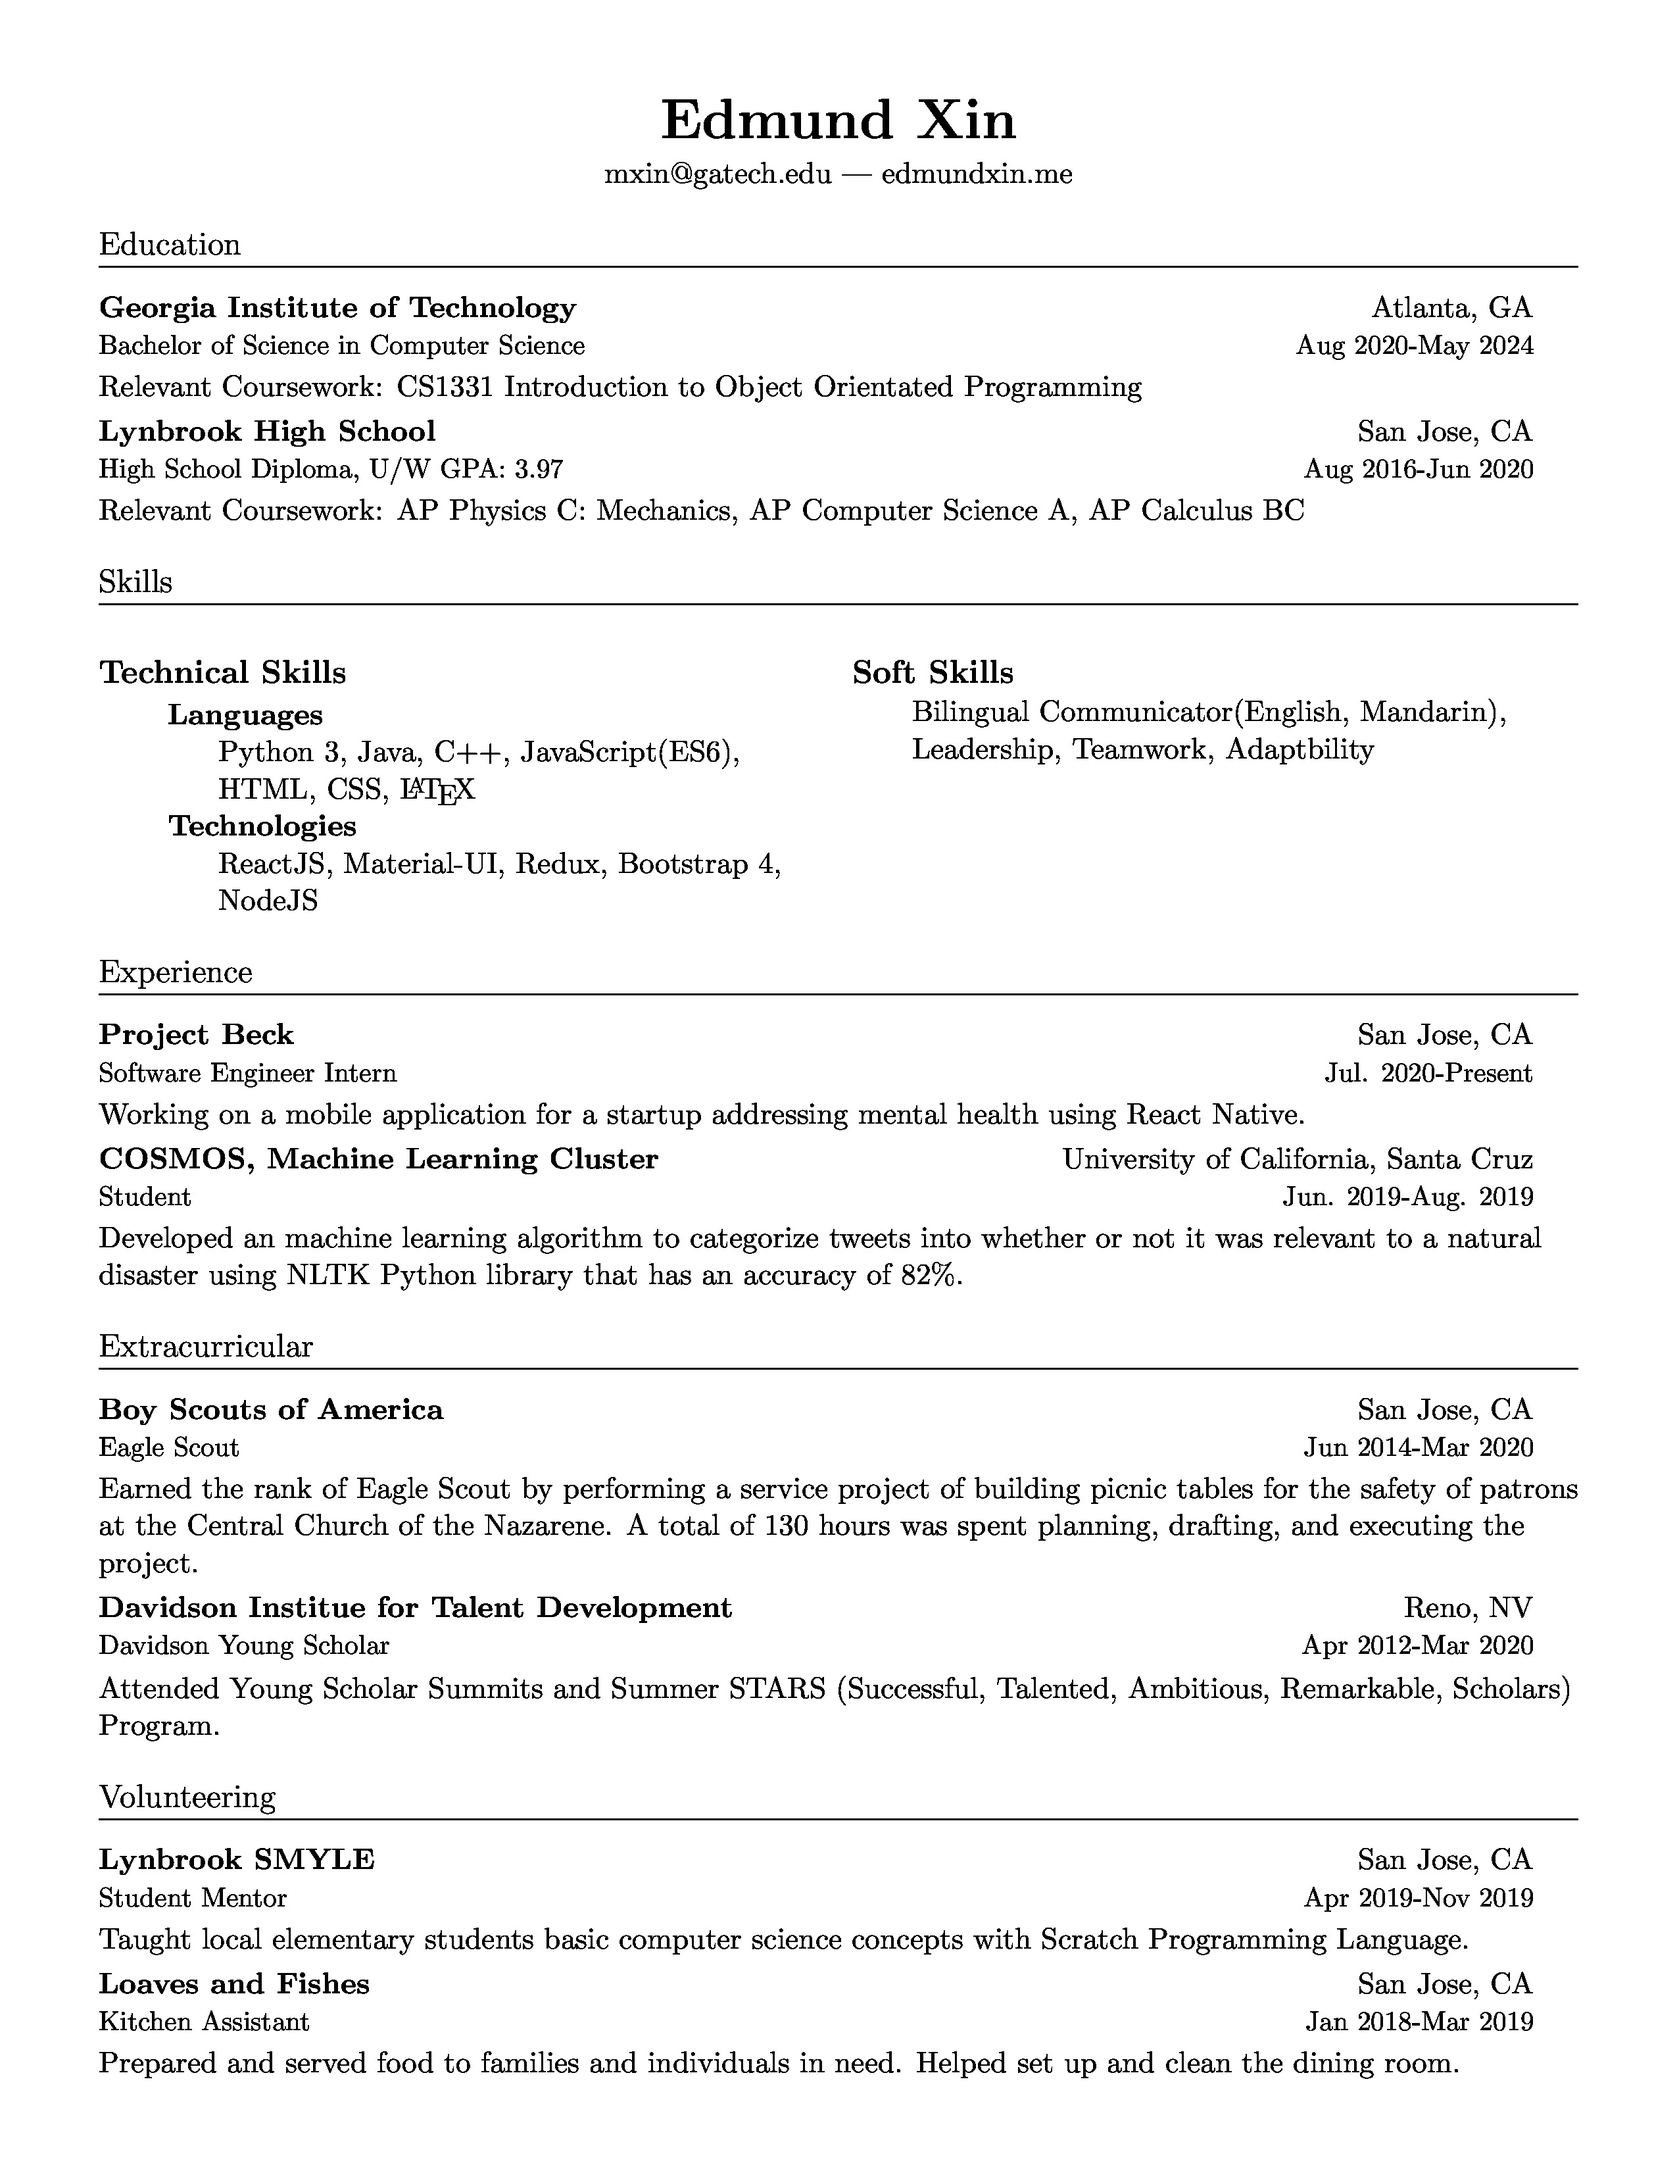
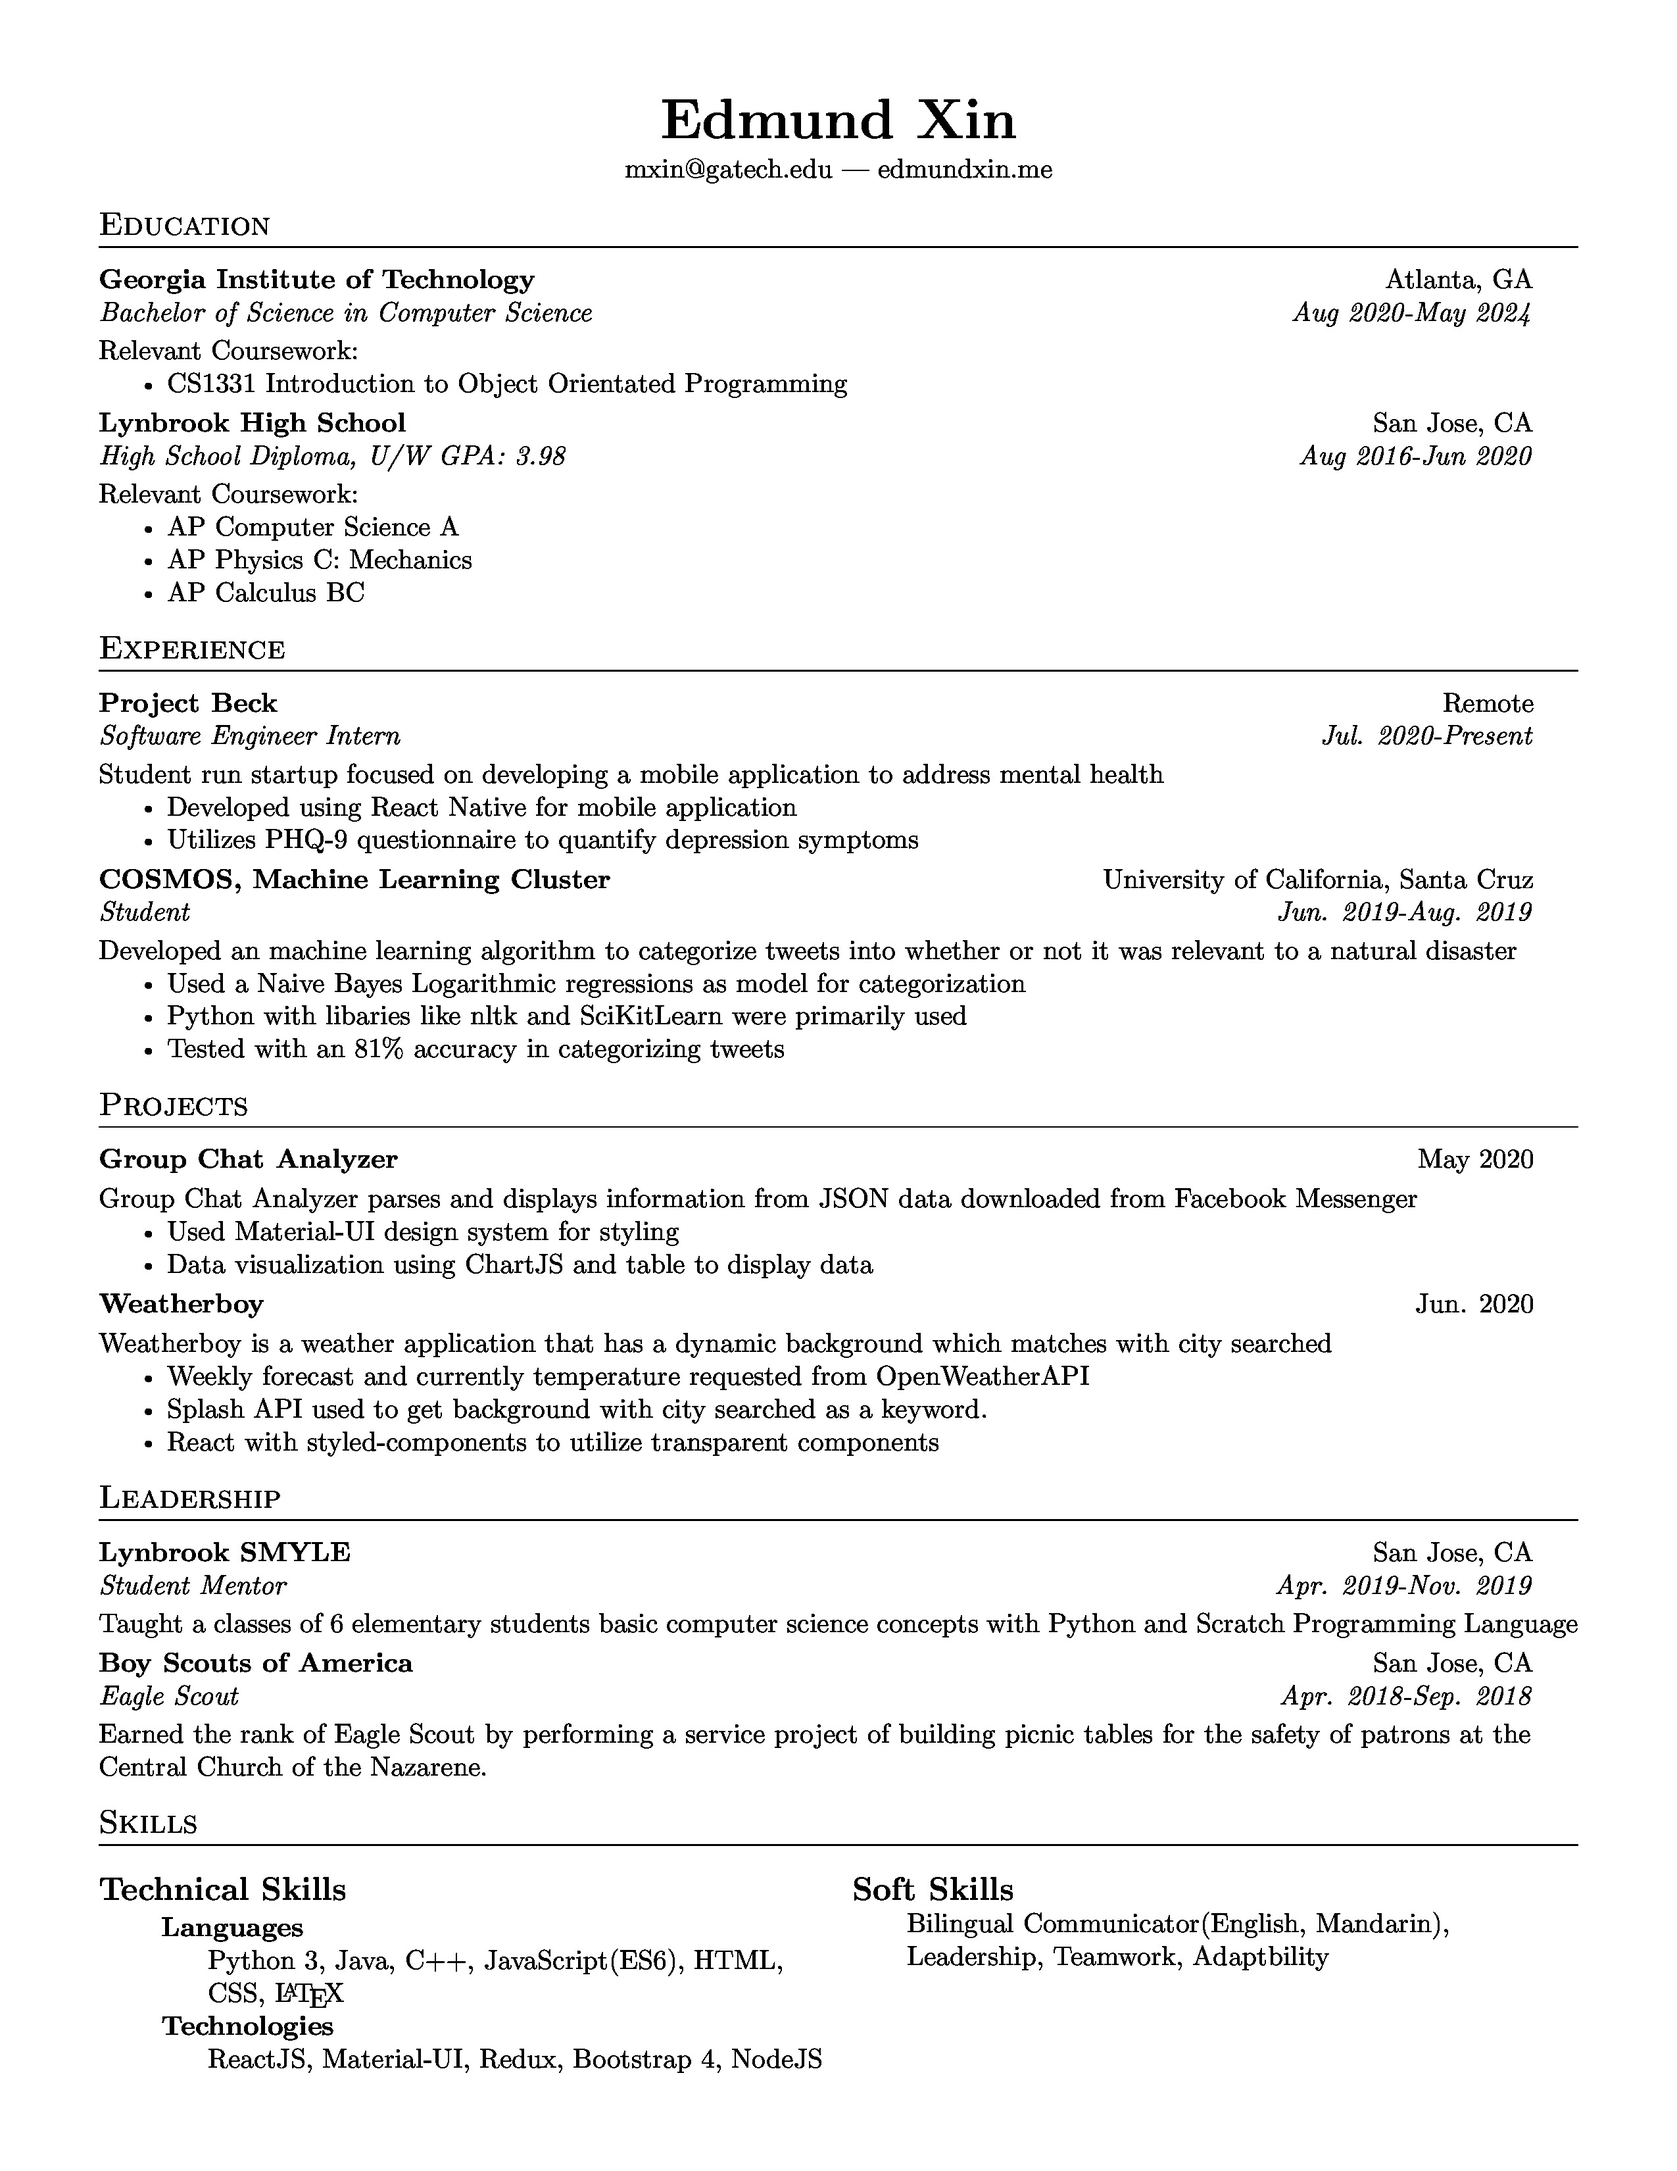
remote location added and spacing

diff --git a/resume.tex b/resume.tex
@@ -53,6 +53,8 @@
 \titlespacing{\subsubsection}
 {2em}{0em}{0em}
 
+\setlength{\multicolsep}{6.0pt plus 2.0pt minus 1.5pt}% 50% of original values
+
 % Custom Commands
 \renewcommand{\maketitle}{
   \begin{center}
@@ -123,7 +125,7 @@ Relevant Coursework:
 
 \section{Experience}
 
-\resumeSubheading{Project Beck}{San Jose, CA}{Software Engineer Intern}{Jul. 2020-Present}
+\resumeSubheading{Project Beck}{Remote}{Software Engineer Intern}{Jul. 2020-Present}
 
 Student run startup focused on developing a mobile application to address mental health
 
